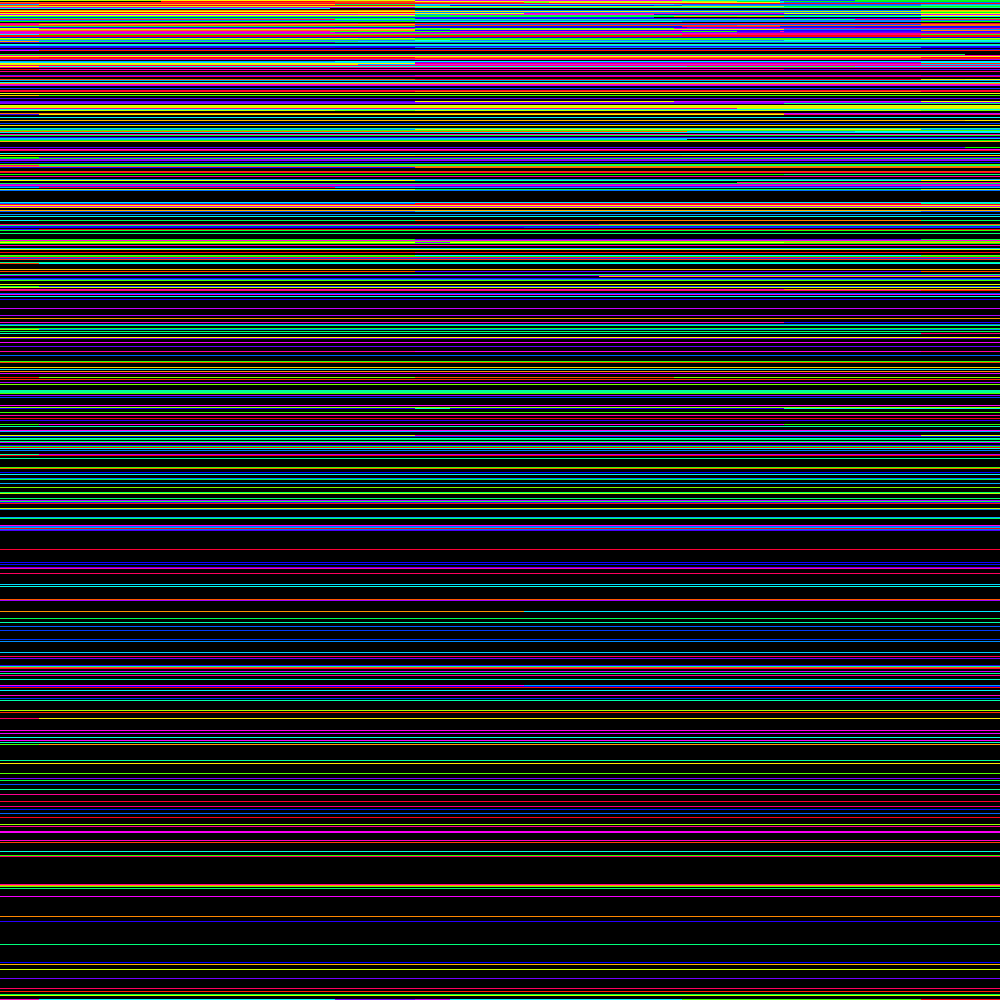
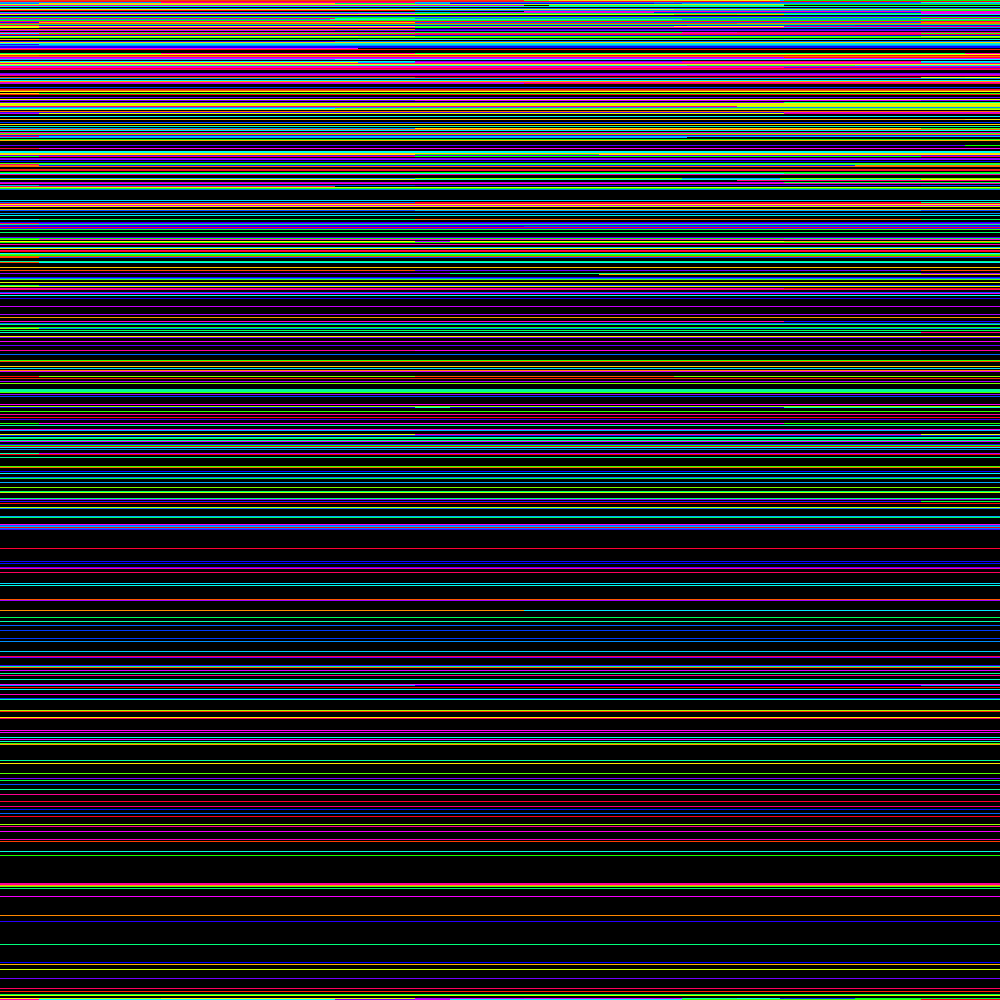
more encapsulation

diff --git a/Visualize_Trees_Scripts/VisualizeTrees.py b/Visualize_Trees_Scripts/VisualizeTrees.py
@@ -6,16 +6,14 @@ from PIL import Image,ImageColor
 ## Assign angles in [0,2*pi] to each sample, then compute the average angle
 ## for each internal node of each tree of all samples below each node.
 
-Ne = 500
-ts = msprime.simulate(Ne, recombination_rate=1.0,random_seed=12)
 
-def Visualize(ts):
+def VisualizeNodes(ts,rescaled_time=True):
 
     #sample_angles = np.random.uniform(0.0, 2*np.pi, ts.num_samples)
     #one_weights = np.repeat(1.0,ts.num_samples)
-
+    Ne = ts.num_samples
     #color each sample evenly around the hue circle
-    initial_hues = np.linspace(0,2*np.pi,ts.num_samples,endpoint=False)
+    initial_hues = np.linspace(0,2*np.pi,Ne,endpoint=False)
 
     #The function for that will compute mean hue for the weight[0] 
     #of the parent node given it's two children's hues.
@@ -36,21 +34,21 @@ def Visualize(ts):
     data = np.zeros((RowsInImage,ColumnsInImage,3), dtype=np.uint8)
     #find oldest node to scale the trees by
     oldest_node = max([n.time for n in ts.nodes()])
-    rescaled_oldest_node = Ne - (1/(1/Ne + oldest_node))
-
-    #un-normalize the tree heights
-    #rescaled_time = Ne - 1/(1/Ne + ts.tables.nodes.time)
-    #oldest_node = max(rescaled_time)
-
+    rescaled_oldest_node = int(Ne - (1/(1/Ne + oldest_node)))
     #get the correct column index interval for respective trees along the genome
     bp = (np.array([b for b in ts.breakpoints()])*(ColumnsInImage/ts.sequence_length)).astype(np.int)
 
     for i,t in enumerate(wt):
         node_times = np.array([ts.node(u).time for u in t.nodes()])
-        rescaled_time = Ne - (1/(1/Ne + node_times))
+        rescaled_times = Ne - (1/(1/Ne + node_times))
         #oldest_node = max(node_times)
         #Get the correct row index for respective node times in each sparse tree
-        node_rows = (rescaled_time * (RowsInImage / rescaled_oldest_node)).astype(np.int)
+        node_rows = None
+        if(rescaled_time):
+            node_rows = (rescaled_times * (RowsInImage / rescaled_oldest_node)).astype(np.int)
+        else:
+            node_rows = (node_times * (RowsInImage / oldest_node)).astype(np.int)
+        
         #print(node_rows)
         #break
         node_hues = (np.array([w[0] for w in t.node_weights()])*((360/(2*np.pi)))%360).astype(np.int)
@@ -58,12 +56,75 @@ def Visualize(ts):
         for r,h in zip(node_rows,node_hues):
             for pixel in range(bp[i],bp[i+1]):
                 colorstring = "hsl("+str(h)+",100%,50%)"
-                data[(RowsInImage-1) - r][pixel] = ImageColor.getcolor(colorstring,mode="HSV")
+                data[(RowsInImage) - r][pixel] = ImageColor.getcolor(colorstring,mode="HSV")
 
     img = Image.fromarray(data)
     return img
 
+def VisualizeEdges(Filename):
 
-img = Visualize(ts)
-img.save("hv.png")
-img.show()
+	treeSequence = msp.load(Filename)
+	trees = treeSequence.trees()
+	tableCollection = treeSequence.dump_tables()
+	nodes = tableCollection.nodes
+	numTrees = treeSequence.num_trees
+	print(numTrees)
+
+	RowsInImage = 1000
+	ColumnsInImage = 1000
+
+	data = np.zeros((RowsInImage,ColumnsInImage,3), dtype=np.uint8)
+
+	length = treeSequence.sequence_length
+	proportions = []
+
+	EdgeTable = tableCollection.edges
+	NodeTable = tableCollection.nodes
+
+	minimumTime = min(NodeTable.time)
+
+	#Change to retrospective "Time Ago"
+	timeShift = NodeTable.time - minimumTime + 1
+	NodeTable.set_columns(flags=NodeTable.flags,time=timeShift,population=NodeTable.population)
+	ts = tableCollection.tree_sequence()
+
+
+	oldestParent = 0
+	for e in EdgeTable:
+		parentNodeID = e.parent
+		parentNode = ts.node(parentNodeID)
+		parentAge = parentNode.time
+		if (parentAge > oldestParent):
+			oldestParent = parentAge 
+
+	oldestParent += 5
+		
+	for ee in EdgeTable:
+		parentNodeID = ee.parent
+		parentNode = ts.node(parentNodeID)
+		parentAge = parentNode.time
+		childNodeID = ee.child 
+		childNode = ts.node(childNodeID)
+		childAge = childNode.time
+		
+		childAgeProp = childAge / oldestParent
+		childAgeRow = int(round(RowsInImage * childAgeProp)) 
+
+		parentAgeProp = parentAge / oldestParent
+		parentAgeRow = int(round(RowsInImage * parentAgeProp)) 
+
+		leftProp = ee.left / length
+		leftIntCol = int(round(ColumnsInImage * leftProp))
+
+		rightProp = ee.right / length
+		rightIntCol = int(round(ColumnsInImage * rightProp))
+
+		for pixel in range(leftIntCol,rightIntCol - 1):
+			data[999 - childAgeRow][pixel] = [240,128,128] #salmon
+			data[999 - parentAgeRow][pixel] = [255,215,18] #gold
+
+
+	img = Image.fromarray(data)
+	return img
+
+

diff --git a/Visualize_Trees_Scripts/toyImage.py b/Visualize_Trees_Scripts/toyImage.py
@@ -4,7 +4,7 @@ from VisualizeTrees import *
 nodes = open("toyNodeTable.txt","r")
 edges = open("toyEdgeTable.txt","r")
 ts = msprime.load_text(nodes=nodes,edges=edges)
-img = Visualize(ts)
+img = VisualizeNodes(ts,rescaled_time=False)
 for t in ts.trees():
     print(t.draw(format="unicode"))
 img.show()
